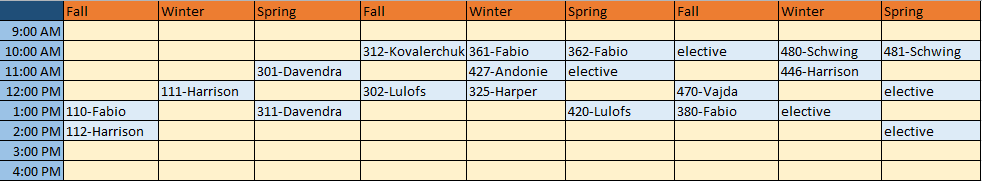
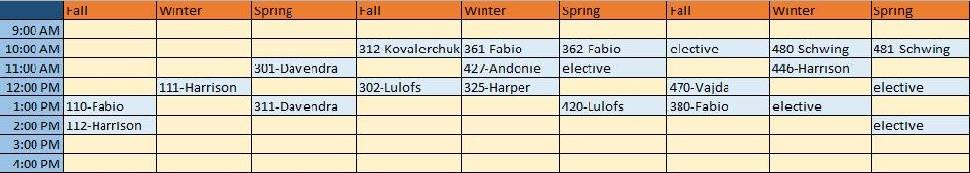
adjusted schedule to fit in screen.
set schedule picture and paragraph to max-width:100%

diff --git a/views/view1.html b/views/view1.html
@@ -1,14 +1,14 @@
 <!--view1.html-->
 
-<div id="schedule" class="row align-middle" style="margin:1px">
-  <div class="media-object stack-for-small">
-    <div class="media-object-section middle align-self-center"> 
-      <div class="thumbnail">
-        <image src="views/pictures/fakeSchedule.png"/>
+<div id="schedule" class="row align-middle" style="margin:1px;">
+  <div class="media-object stack-for-small" >
+    
+      <div class="thumbnail"  >
+        <image src="views/pictures/fakeSchedule.png" style='max-width:100%;'/>
       </div>
-    </div>
-    <div class="media-object-section main-section callout" >
-      <h3 align="center">Your Optimum Schedule</h3>  
+    
+    <div class="media-object-section main-section callout" style='max-width: 100%;' >
+      <h3 align="center" >Your Optimum Schedule</h3>  
       <p>Lorem ipsum dolor sit amet, consectetur adipiscing elit, sed do eiusmod tempor incididunt ut labore et dolore magna aliqua. 
           Ut enim ad minim veniam, quis nostrud exercitation ullamco laboris nisi ut aliquip ex ea commodo consequat.
           Duis aute irure dolor in reprehenderit in voluptate velit esse cillum dolore eu fugiat nulla pariatur. 

diff --git a/css/app.css b/css/app.css
@@ -35,7 +35,7 @@
     animation-duration: 2s;
     animation-iteration-count: infinite;
 }
-//custom scrollbars for webkit browsers
+
 ::-webkit-scrollbar {
     width: 12px;
 }
